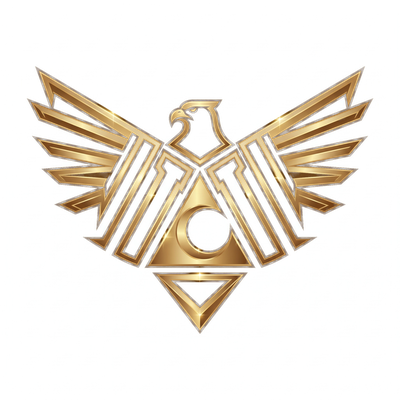
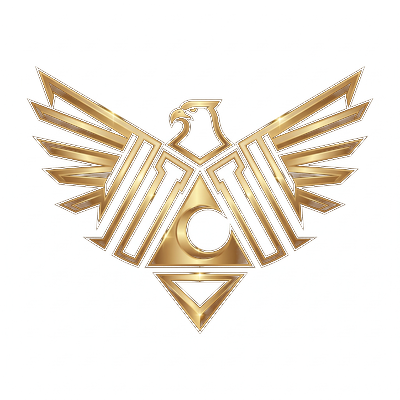
fix: AITC 독수리 로고 배경 완전 투명 처리 (흰 박스 제거, 캐시 ac->ad)

Changed region(s): [[0.06, 0.15, 0.93, 0.84]]

diff --git a/src/views/app.tsx b/src/views/app.tsx
@@ -92,15 +92,15 @@ export function renderApp(): string {
   <div id="app"></div>
   <div id="modal-root"></div>
   <div id="toast-root" class="fixed top-4 right-4 z-[100] flex flex-col gap-2"></div>
-  <script src="/static/api.js?v=20260820ac"></script>
-  <script src="/static/i18n.js?v=20260820ac"></script>
-  <script src="/static/i18n-dict.js?v=20260820ac"></script>
-  <script src="/static/components.js?v=20260820ac"></script>
-  <script src="/static/pages.js?v=20260820ac"></script>
-  <script src="/static/mypage.js?v=20260820ac"></script>
-  <script src="/static/network.js?v=20260820ac"></script>
-  <script src="/static/admin.js?v=20260820ac"></script>
-  <script src="/static/app.js?v=20260820ac"></script>
+  <script src="/static/api.js?v=20260820ad"></script>
+  <script src="/static/i18n.js?v=20260820ad"></script>
+  <script src="/static/i18n-dict.js?v=20260820ad"></script>
+  <script src="/static/components.js?v=20260820ad"></script>
+  <script src="/static/pages.js?v=20260820ad"></script>
+  <script src="/static/mypage.js?v=20260820ad"></script>
+  <script src="/static/network.js?v=20260820ad"></script>
+  <script src="/static/admin.js?v=20260820ad"></script>
+  <script src="/static/app.js?v=20260820ad"></script>
   <script>if (typeof I18N !== 'undefined') I18N.init()</script>
 </body>
 </html>`

diff --git a/api/index.js b/api/index.js
@@ -10885,15 +10885,15 @@ function renderApp() {
   <div id="app"></div>
   <div id="modal-root"></div>
   <div id="toast-root" class="fixed top-4 right-4 z-[100] flex flex-col gap-2"></div>
-  <script src="/static/api.js?v=20260820ac"></script>
-  <script src="/static/i18n.js?v=20260820ac"></script>
-  <script src="/static/i18n-dict.js?v=20260820ac"></script>
-  <script src="/static/components.js?v=20260820ac"></script>
-  <script src="/static/pages.js?v=20260820ac"></script>
-  <script src="/static/mypage.js?v=20260820ac"></script>
-  <script src="/static/network.js?v=20260820ac"></script>
-  <script src="/static/admin.js?v=20260820ac"></script>
-  <script src="/static/app.js?v=20260820ac"></script>
+  <script src="/static/api.js?v=20260820ad"></script>
+  <script src="/static/i18n.js?v=20260820ad"></script>
+  <script src="/static/i18n-dict.js?v=20260820ad"></script>
+  <script src="/static/components.js?v=20260820ad"></script>
+  <script src="/static/pages.js?v=20260820ad"></script>
+  <script src="/static/mypage.js?v=20260820ad"></script>
+  <script src="/static/network.js?v=20260820ad"></script>
+  <script src="/static/admin.js?v=20260820ad"></script>
+  <script src="/static/app.js?v=20260820ad"></script>
   <script>if (typeof I18N !== 'undefined') I18N.init()</script>
 </body>
 </html>`;
